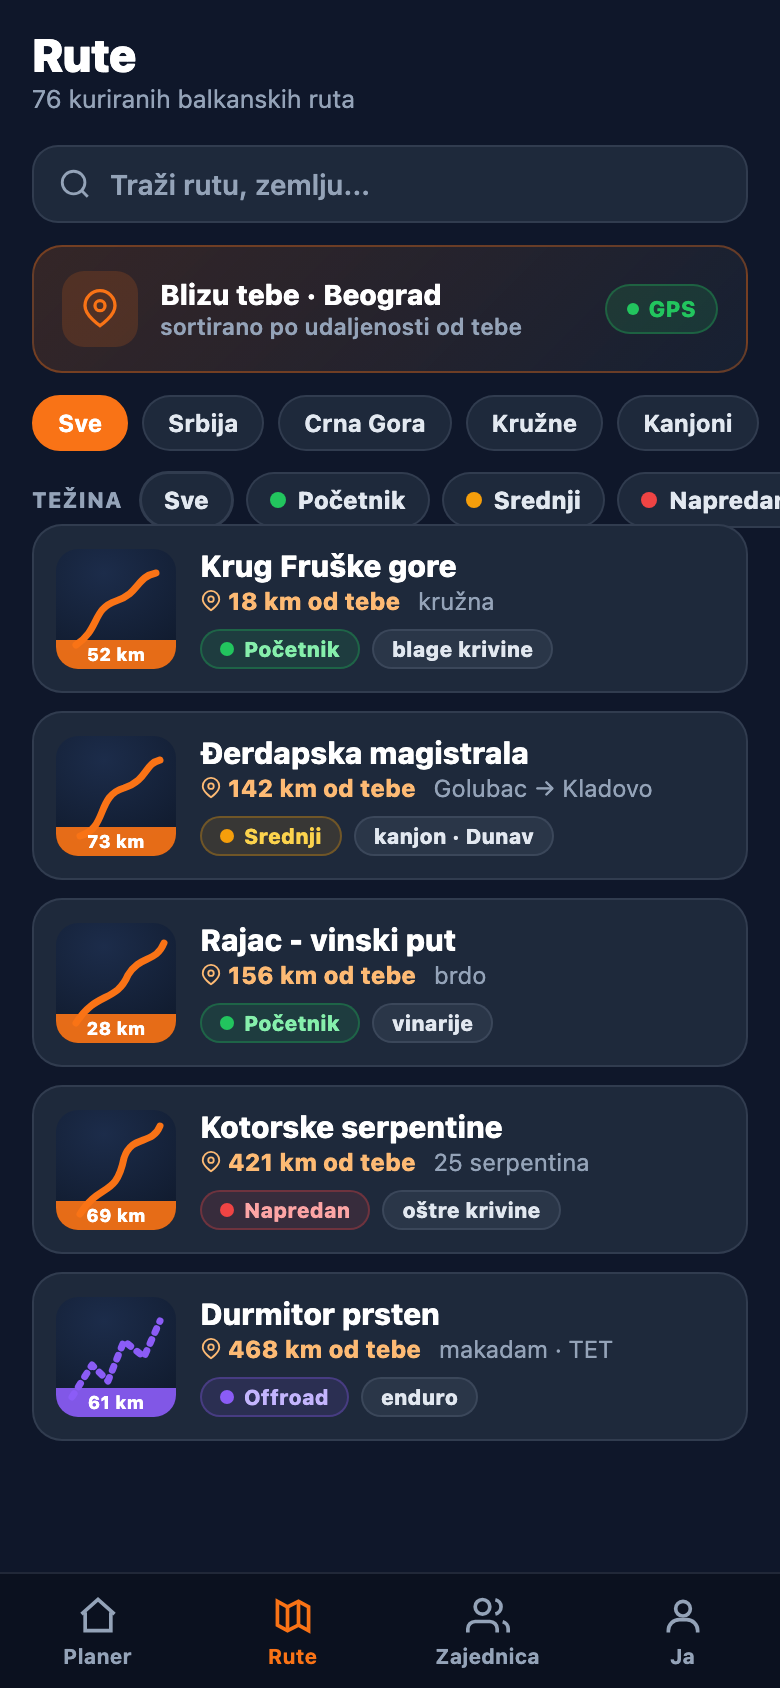
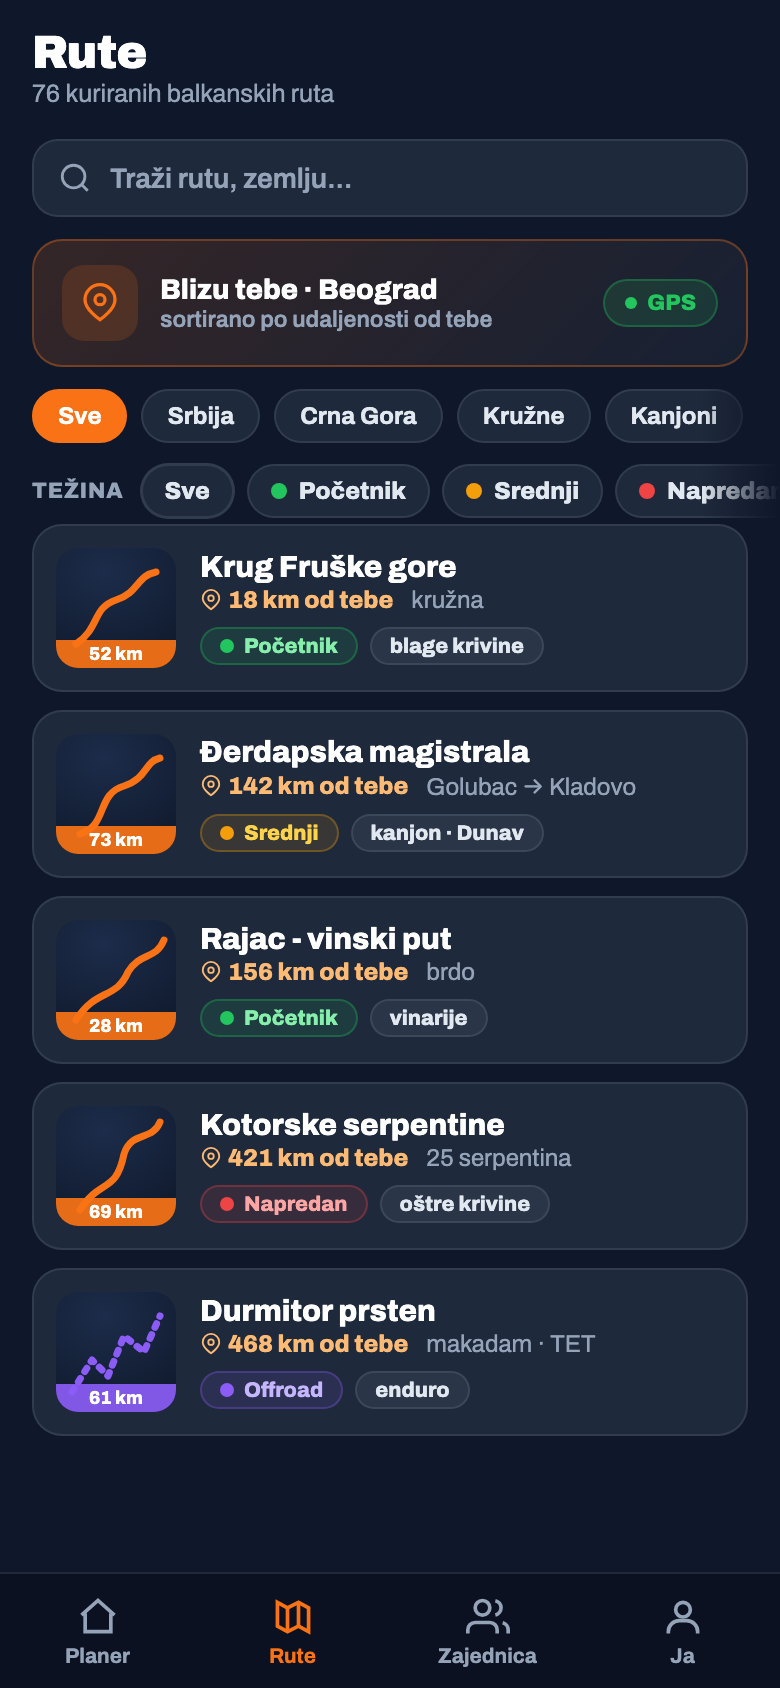
3D demo: glatko pracenje smera (low-pass) + zoom 16 + radar kise (patch na mapi gde pada); Rute filteri klize sa fade ivicom umesto seka

diff --git a/maketa/3d.html b/maketa/3d.html
@@ -190,6 +190,14 @@ function addTerrainRoute(){
   if(!map.getSource('trav'))map.addSource('trav',{type:'geojson',data:{type:'Feature',geometry:{type:'LineString',coordinates:[ROUTE[0]]}}});
   if(!map.getLayer('trav-ln'))map.addLayer({id:'trav-ln',type:'line',source:'trav',
     layout:{'line-cap':'round','line-join':'round'},paint:{'line-color':'#38bdf8','line-width':6}});
+  // radar kiše (demo) - patch na mapi gde pada kiša
+  if(!map.getSource('rain'))map.addSource('rain',{type:'geojson',data:{type:'Feature',geometry:{type:'Point',coordinates:ROUTE[Math.min(560,ROUTE.length-1)]}}});
+  if(!map.getLayer('rain-out'))map.addLayer({id:'rain-out',type:'circle',source:'rain',layout:{visibility:'none'},
+    paint:{'circle-radius':['interpolate',['linear'],['zoom'],10,26,16,150],'circle-color':'#38bdf8','circle-opacity':0.16,'circle-blur':0.7}});
+  if(!map.getLayer('rain-mid'))map.addLayer({id:'rain-mid',type:'circle',source:'rain',layout:{visibility:'none'},
+    paint:{'circle-radius':['interpolate',['linear'],['zoom'],10,16,16,95],'circle-color':'#0ea5e9','circle-opacity':0.24,'circle-blur':0.6}});
+  if(!map.getLayer('rain-in'))map.addLayer({id:'rain-in',type:'circle',source:'rain',layout:{visibility:'none'},
+    paint:{'circle-radius':['interpolate',['linear'],['zoom'],10,8,16,50],'circle-color':'#6366f1','circle-opacity':0.30,'circle-blur':0.5}});
 }
 function setSky(){try{map.setSky({'sky-color':mode==='dark'?'#0a1330':'#93c5fd',
   'sky-horizon-blend':0.5,'horizon-color':mode==='dark'?'#1b2745':'#d5e8ff',
@@ -234,7 +242,7 @@ function idxAt(d){if(d<=0)return 0;if(d>=TOTAL)return CUM.length-2;let lo=0,hi=C
 function posAt(d){if(d<=0)return ROUTE[0].slice();if(d>=TOTAL)return ROUTE[ROUTE.length-1].slice();
   const i=idxAt(d),seg=(CUM[i+1]-CUM[i])||1,t=(d-CUM[i])/seg;
   return [ROUTE[i][0]+(ROUTE[i+1][0]-ROUTE[i][0])*t,ROUTE[i][1]+(ROUTE[i+1][1]-ROUTE[i][1])*t];}
-function brgAt(d){const a=posAt(d),b=posAt(Math.min(TOTAL,d+12));
+function brgAt(d){const a=posAt(d),b=posAt(Math.min(TOTAL,d+22));
   const y=Math.sin((b[0]-a[0])*Math.PI/180)*Math.cos(b[1]*Math.PI/180);
   const x=Math.cos(a[1]*Math.PI/180)*Math.sin(b[1]*Math.PI/180)-Math.sin(a[1]*Math.PI/180)*Math.cos(b[1]*Math.PI/180)*Math.cos((b[0]-a[0])*Math.PI/180);
   return (Math.atan2(y,x)*180/Math.PI+360)%360;}
@@ -244,7 +252,7 @@ const INSTR=[{i:0,dir:'start',t:'Kreni',s:'Kotor · ka Cetinju'},{i:120,dir:'lef
  {i:560,dir:'right',t:'Skreni desno',s:'ka Njegušima'},{i:703,dir:'left',t:'Njeguši',s:'nastavi ka Cetinju'},
  {i:ROUTE.length-1,dir:'finish',t:'Stigao si!',s:'Cetinje'}];
 INSTR.forEach(x=>x.d=CUM[Math.min(x.i,CUM.length-1)]);
-const ALERTS=[{i:300,t:'Kiša za ~10 min kod Njeguša - moguća pauza na prevoju'},{i:600,t:'Bočni vetar na grebenu - drži čvrsto'}];
+const ALERTS=[{i:300,t:'Kiša ispred na ruti - pojaviće se na mapi (radar)'},{i:640,t:'Bočni vetar na grebenu - drži čvrsto'}];
 ALERTS.forEach(x=>x.d=CUM[Math.min(x.i,CUM.length-1)]);
 const BASE=170;
 let S={on:false,playing:false,d:0,mult:5,last:0,raf:0};
@@ -256,8 +264,13 @@ function updNav(d){let n=INSTR[INSTR.length-1];for(const x of INSTR){if(x.d>=d-2
   $('navArr').querySelector('path').setAttribute('d',ARROWS[n.dir]||ARROWS.start);}
 function updAlert(d){let a=null;for(const x of ALERTS)if(d>=x.d-600&&d<=x.d+150)a=x;const w=$('navWx');
   if(a){w.textContent='⚠ '+a.t;w.classList.add('on');}else w.classList.remove('on');}
-function renderSim(){const p=posAt(S.d),b=brgAt(S.d);map.jumpTo({center:p,bearing:b,pitch:66,zoom:15});
-  updTrav(S.d);updNav(S.d);updAlert(S.d);
+let camBrg=null, rainShown=null;
+const RAIN_I=560, rainD=CUM[Math.min(RAIN_I,CUM.length-1)];
+function smoothBrg(t){if(camBrg==null){camBrg=t;return t;}let df=((t-camBrg+540)%360)-180;camBrg=(camBrg+df*0.1+360)%360;return camBrg;}
+function rainViz(d){const show=(d>=rainD-4500&&d<=rainD+900);if(show!==rainShown){rainShown=show;['rain-out','rain-mid','rain-in'].forEach(l=>{try{map.setLayoutProperty(l,'visibility',show?'visible':'none');}catch(e){}});}}
+function renderSim(){const p=posAt(S.d);const b=smoothBrg(brgAt(S.d));
+  map.jumpTo({center:p,bearing:b,pitch:66,zoom:16});
+  updTrav(S.d);updNav(S.d);updAlert(S.d);rainViz(S.d);
   $('kmh').textContent=Math.round(46+20*Math.abs(Math.sin(S.d/260)));
   $('progBar').style.width=(S.d/TOTAL*100).toFixed(1)+'%';}
 function loop(t){if(S.on){
@@ -267,7 +280,7 @@ function loop(t){if(S.on){
   }else S.last=0;
   S.raf=requestAnimationFrame(loop);}}
 function setInteract(on){['dragPan','dragRotate','scrollZoom','touchZoomRotate','doubleClickZoom'].forEach(h=>{try{on?map[h].enable():map[h].disable();}catch(e){}});}
-function startSim(){S.on=true;S.d=0;S.last=0;S.playing=true;document.body.classList.add('sim');is3D=true;
+function startSim(){S.on=true;S.d=0;S.last=0;S.playing=true;camBrg=null;rainShown=null;document.body.classList.add('sim');is3D=true;
   $('ppIcon').innerHTML='<path d="M6 5h4v14H6zM14 5h4v14h-4z"/>';setInteract(false);renderSim();
   cancelAnimationFrame(S.raf);S.raf=requestAnimationFrame(loop);}
 function exitSim(){S.on=false;S.playing=false;cancelAnimationFrame(S.raf);document.body.classList.remove('sim');

diff --git a/maketa/rute.html b/maketa/rute.html
@@ -26,10 +26,12 @@
   .geo .on .dt{width:6px;height:6px;border-radius:50%;background:var(--g)}
 
   /* filteri */
-  .fil{display:flex;gap:7px;padding:11px 16px 3px;overflow:hidden}
+  .fil{display:flex;gap:7px;padding:11px 16px 3px;overflow-x:auto;overflow-y:hidden;scrollbar-width:none;-webkit-overflow-scrolling:touch;-webkit-mask-image:linear-gradient(90deg,#000 90%,transparent);mask-image:linear-gradient(90deg,#000 90%,transparent)}
+  .fil::-webkit-scrollbar{display:none}
   .f{white-space:nowrap;background:var(--card);border:1px solid var(--line);border-radius:999px;padding:6px 12px;font-size:12px;font-weight:700;color:var(--txt)}
   .f.on{background:var(--or);border-color:var(--or);color:#fff}
-  .diff{display:flex;gap:6px;padding:7px 16px 4px;overflow:hidden;align-items:center}
+  .diff{display:flex;gap:6px;padding:7px 16px 4px;overflow-x:auto;overflow-y:hidden;scrollbar-width:none;-webkit-overflow-scrolling:touch;align-items:center;-webkit-mask-image:linear-gradient(90deg,#000 90%,transparent);mask-image:linear-gradient(90deg,#000 90%,transparent)}
+  .diff::-webkit-scrollbar{display:none}
   .diff .dl{font-size:11px;font-weight:800;color:var(--mut);text-transform:uppercase;letter-spacing:.04em;margin-right:2px}
   .dchip{white-space:nowrap;border-radius:999px;padding:6px 11px;font-size:12px;font-weight:800;display:flex;align-items:center;gap:6px;
     background:var(--card);border:1px solid var(--line);color:var(--txt)}